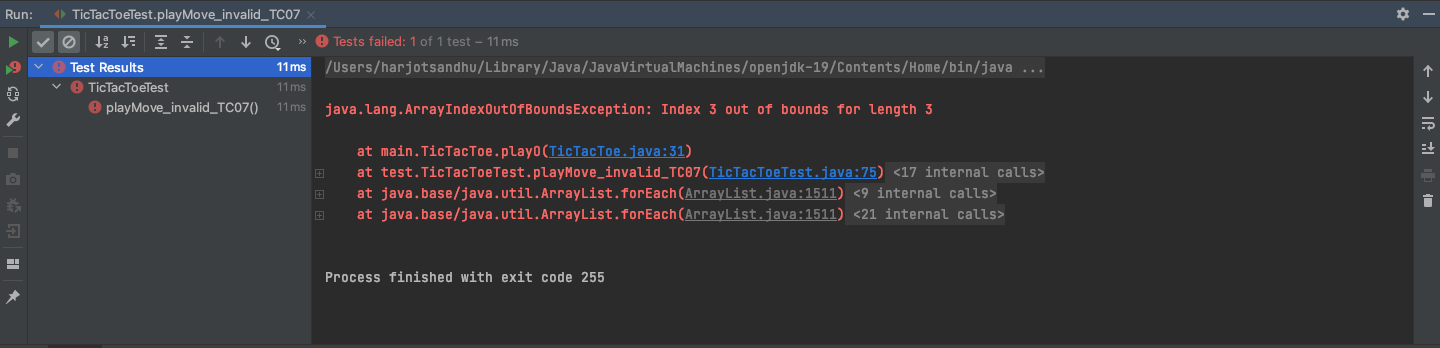
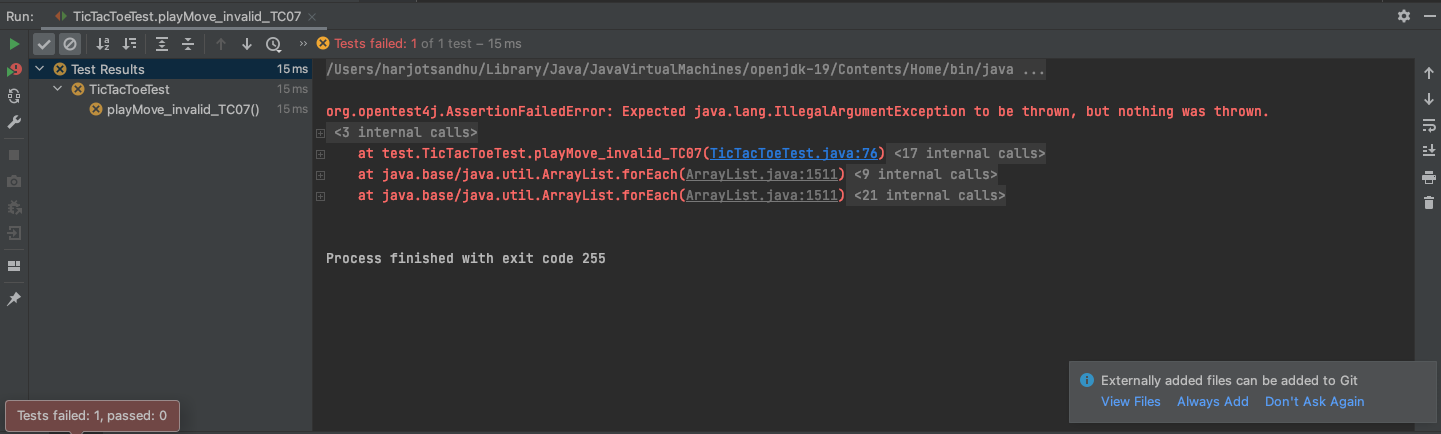
TC07 Failed Error Before

diff --git a/src/test/TicTacToeTest.java b/src/test/TicTacToeTest.java
@@ -69,13 +69,13 @@ public class TicTacToeTest {
     void playMove_invalid_TC07(){
         TicTacToe newGame = new TicTacToe();
         newGame.playO(0,1);
-        newGame.playX(1,1);
+        newGame.playX(1,0);
         newGame.playO(0,2);
-        newGame.playX(2,1);
-        newGame.playO(0,3);
+        newGame.playX(1,1);
+        newGame.playO(0,0);
         assertThrows(
                 IllegalArgumentException.class,
-                () -> newGame.playX(3,1)
+                () -> newGame.playX(1,2)
     );
     }
 

diff --git a/src/main/TicTacToe.java b/src/main/TicTacToe.java
@@ -21,6 +21,7 @@ public class TicTacToe {
     }
 
     public void playX(int i, int j) {
+
         if(table[i][j] != " "){
             throw new IllegalArgumentException("Spot already has been marked");
         }
